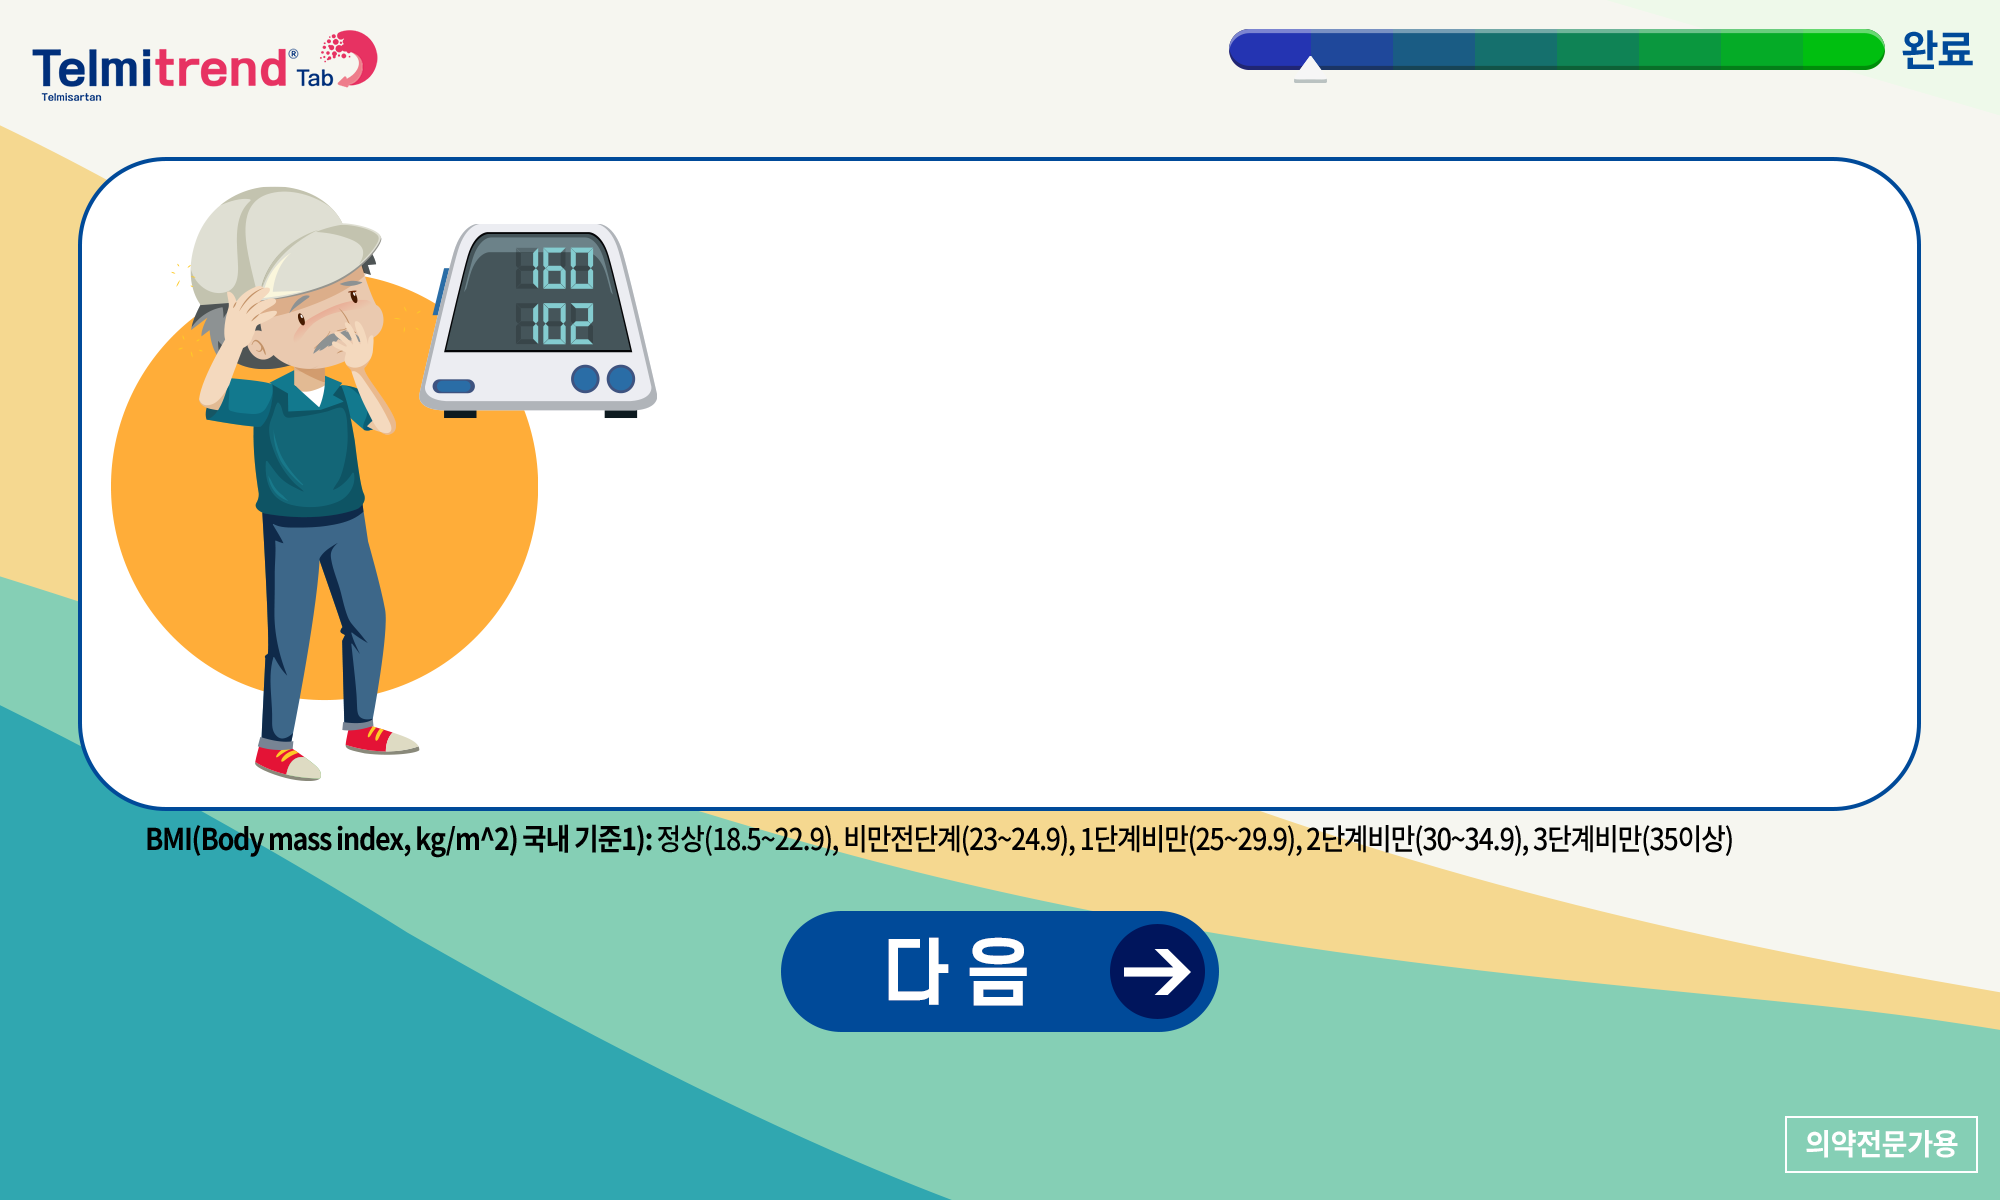
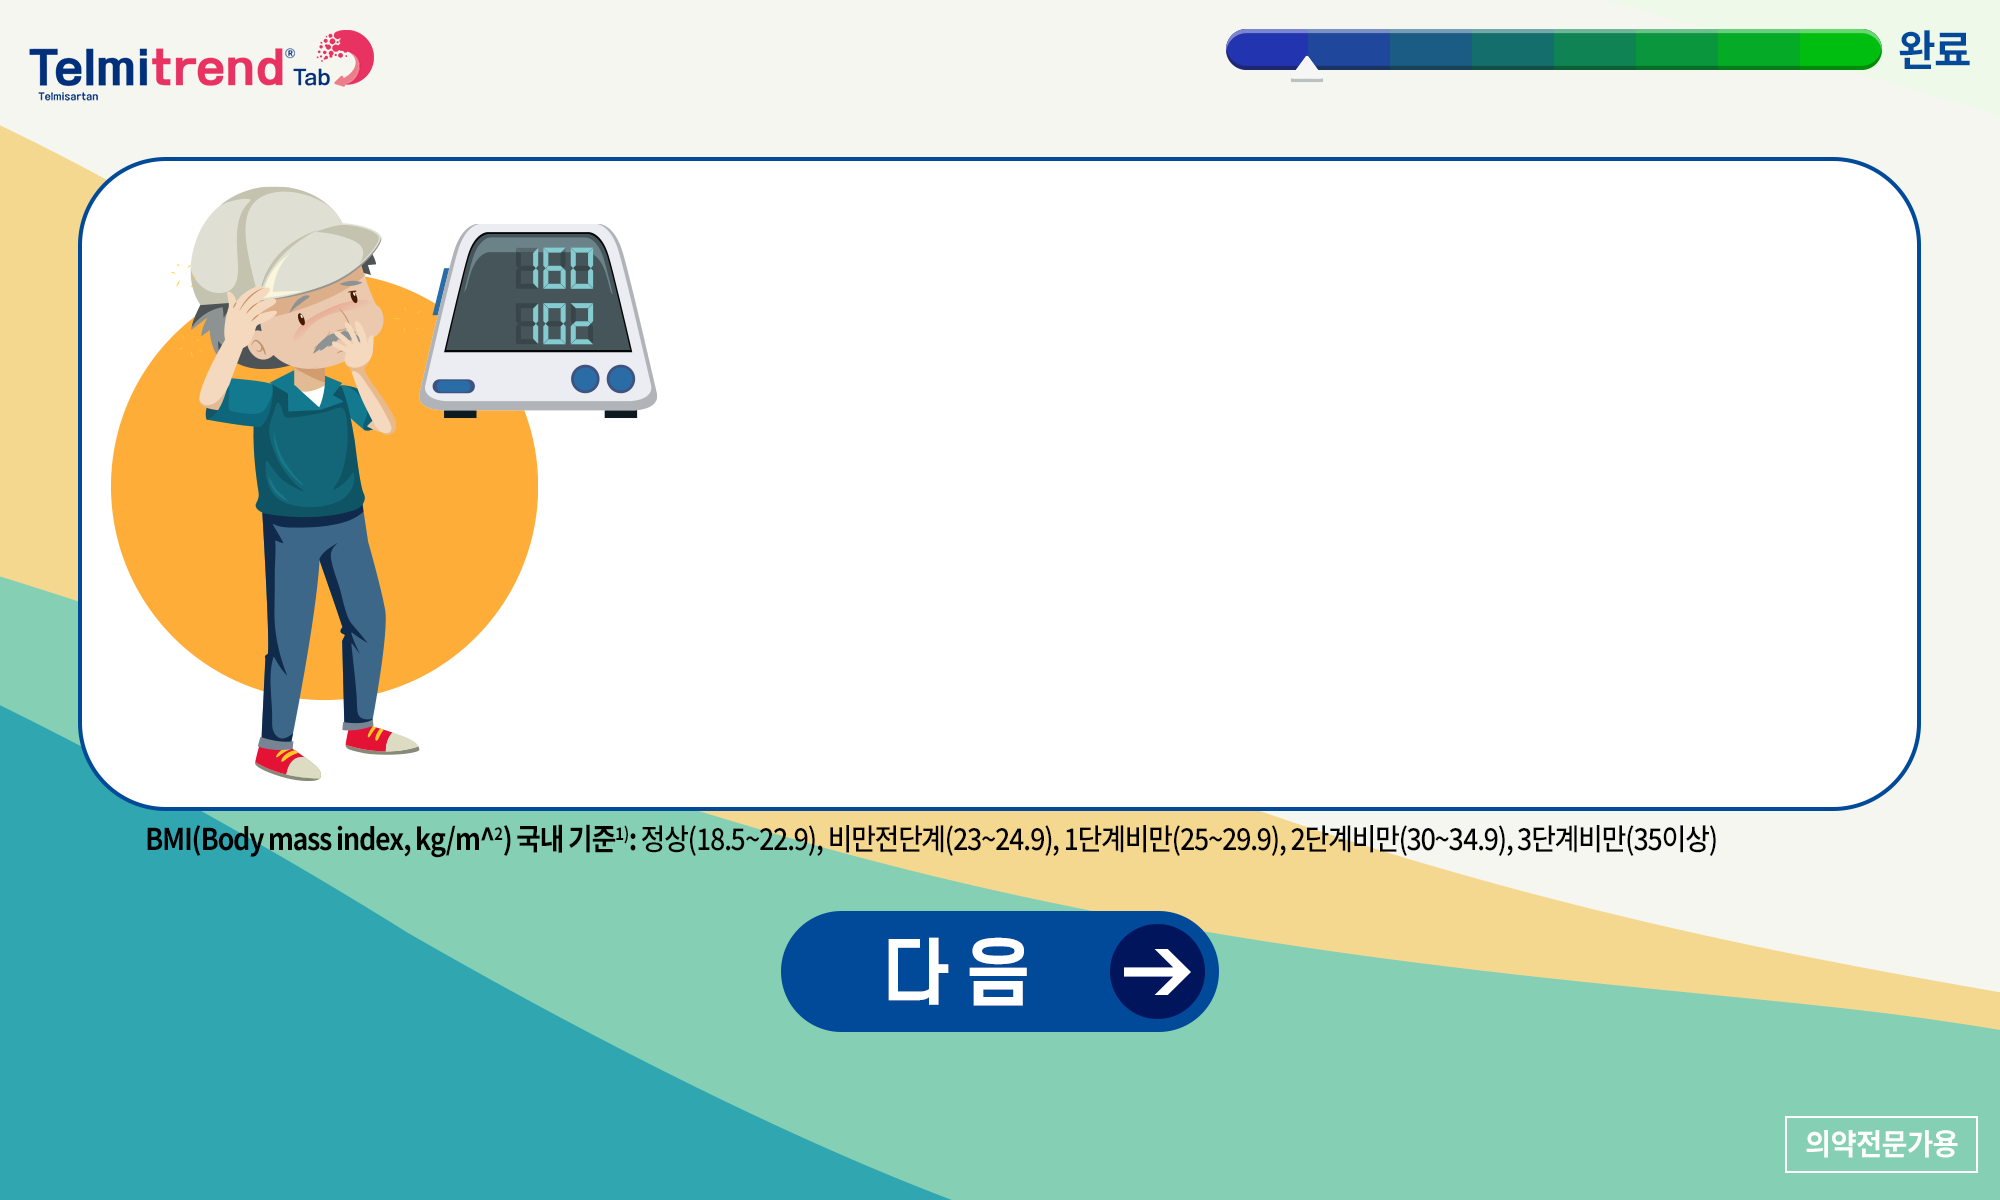
3차 업로드(8월)

Changed region(s): [[0.248, 0.6783, 0.868, 0.7092], [0.0, 0.0308, 0.186, 0.0925], [0.93, 0.0308, 0.992, 0.0617]]

diff --git a/src/data/queBoard.js b/src/data/queBoard.js
@@ -277,7 +277,7 @@ export default {
     q0: {
       part: { num: 1_1, q: '<strong>혈압강하제 처방이 결정된</strong> 다음과 같은<br> 중위험군 환자, 이 환자에게 처방을 하신다면?' },
       qImg: 'm8-s-1-1.png',
-      qText: '올해 70세인 김세월씨는 정년퇴임 후 아침마다 집 앞 등산로를<br> 걸으면서 BMI 22kg/m2 허리둘레 86cm정도로 유지하고 있다.<br> 그렇지만 여전히 담배도 끊지 못했고 혈압도 160/102 mmHg으로<br> 높다. 이 나이에 혈압약 안 먹는 사람 있나.. 싶다 가도, 지난 칠순<br> 생일에 제2형 당뇨병 때문에 초등학생 손녀가 용돈 모아 사 온<br> 케이크도 못 먹은 생각을 하니 슬프다. 얼마전 병원 검사에서는<br> 미세알부민뇨도 검출되었다고 하여 걱정이 하나 더 늘었다. 건강하게<br> 오래 살아서 손녀 결혼하는 것도 보고 싶은데, 가능할까..?\n',
+      qText: '올해 70세인 김세월씨는 정년퇴임 후 아침마다 집 앞 등산로를<br> 걸으면서 BMI 22kg/m<sup>2</sup>, 허리둘레 86cm정도로 유지하고 있다.<br> 그렇지만 여전히 담배도 끊지 못했고 혈압도 160/102 mmHg으로<br> 높다. 이 나이에 혈압약 안 먹는 사람 있나.. 싶다 가도, 지난 칠순<br> 생일에 제2형 당뇨병 때문에 초등학생 손녀가 용돈 모아 사 온<br> 케이크도 못 먹은 생각을 하니 슬프다. 얼마전 병원 검사에서는<br> 미세알부민뇨도 검출되었다고 하여 걱정이 하나 더 늘었다. 건강하게<br> 오래 살아서 손녀 결혼하는 것도 보고 싶은데, 가능할까..?\n',
       img: 'doctors.png',
     },
     q1: {
@@ -290,27 +290,62 @@ export default {
       type: 'radio',
     },
     q2: {
-      part: { num: 1_2, q: '저용량으로 시작하시게 된 이유는 무엇인가요?' },
+      part: { num: 1_2, q: '특정 ARB 제제 처방을 고려하시게 된 이유는 무엇인가요? (복수 선택 가능)' },
       qImg: 'm8-s-2-1.png',
       aImg: 'm8-s-2-2.png',
       examples: [
-        {idx: 'a', label: '1기 고혈압은 저용량으로도 충분하다고 생각해서'},
-        {idx: 'b', label: '위험인자 중 비만은 생활습관 개선으로 일부 조절이 가능하므로'},
-        {idx: 'c', label: '고용량 처방 후 발생 가능한 부작용을 피하기 위해서'},
+        {idx: 'a', label: '당뇨병과 미세알부민뇨를 동반한 환자여서'},
+        {idx: 'b', label: '특정 ARB의 혈압조절 효과가 타 ARB보다 우수하다고 생각하므로'},
+        {idx: 'c', label: '특정 ARB의 심혈관질환 위험성 감소 적응증을 고려해서'},
         {idx: 'd', label: '기타'},
+      ],
+      next: 'q2r',
+      type: 'checkbox',
+    },
+    q2r: {
+      part: { num: 1_2-1, q: '다음 ARB 제제 중 처방을 고려하실 약물은 무엇인가요? (복수 선택 가능)' },
+      qImg: 'm8-s-2-1.png',
+      aImg: 'm8-s-2-3.png',
+      examples: [
+        {idx: 'a', label: 'Losartan'},
+        {idx: 'b', label: 'Candesartan'},
+        {idx: 'c', label: 'Telmisartan 80mg'},
+        {idx: 'd', label: 'Telmisartan 20~40mg'},
+        {idx: 'e', label: 'Olmesartan'},
+        {idx: 'f', label: 'Valsartan'},
+        {idx: 'g', label: 'Fimasartan'},
+        {idx: 'h', label: '기타 ARB'},
       ],
       next: 'q4',
       type: 'checkbox',
     },
     q3: {
-      part: { num: 1_2, q: '고용량으로 시작하시게 된 이유는 무엇인가요?' },
+      part: { num: 1_2, q: '주로 처방해왔던 ARB 제제 처방을 고려하시게 된 이유는 무엇인가요? (복수 선택 가능)' },
       qImg: 'm8-s-3-1.png',
       aImg: 'm8-s-3-2.png',
       examples: [
-        {idx: 'a', label: '일단 신속한 혈압 관리가 필요해서'},
-        {idx: 'b', label: '비만이라는 위험인자를 보유한 환자이므로'},
-        {idx: 'c', label: '직업상 규칙적인 운동 등 생활습관 개선이 어려워서'},
-        {idx: 'd', label: '기타'},
+        {idx: 'a', label: 'ARB 간에 효과 차이는 없다고 생각하므로 (class effect)'},
+        {idx: 'b', label: '주로 처방해왔던 ARB 제제의 혈압 강하 효과가 충분하므로'},
+        {idx: 'c', label: '주로 처방해왔던 ARB 제제가 심혈관질환 위험성 감소<br> 적응증을 가지고 있으므로'},
+        {idx: 'd', label: '가이드라인에서 당뇨병이나 신장에 동반 환자에게 ARB를<br> 권고할 때 특정 ARB를 거론하지 않았기 때문에'},
+        {idx: 'e', label: '기타'},
+      ],
+      next: 'q3r',
+      type: 'checkbox',
+    },
+    q3r: {
+      part: { num: 1_2_1, q: '다음 ARB 제제 중 처방을 고려하실 약물은 무엇인가요? (복수 선택 가능)' },
+      qImg: 'm8-s-3-1.png',
+      aImg: 'm8-s-2-3.png',
+      examples: [
+        {idx: 'a', label: 'Losartan'},
+        {idx: 'b', label: 'Candesartan'},
+        {idx: 'c', label: 'Telmisartan (40mg, 80mg)'},
+        {idx: 'd', label: 'Telmisartan (20mg)'},
+        {idx: 'e', label: 'Olmesartan'},
+        {idx: 'f', label: 'Valsartan'},
+        {idx: 'g', label: 'Fimasartan'},
+        {idx: 'h', label: '기타'},
       ],
       next: 'q4',
       type: 'checkbox',

diff --git a/src/data/queBoard-admin.js b/src/data/queBoard-admin.js
@@ -237,21 +237,48 @@ export default {
       ],
     },
     q2: {
-      part: { num: '1-2', q: '저용량으로 시작하시게 된 이유는 무엇인가요?' },
+      part: { num: '1-2', q: '특정 ARB 제제 처방을 고려하시게 된 이유는 무엇인가요? (복수 선택 가능)' },
       examples: [
-        {idx: 'a', label: '1기 고혈압은 저용량으로도 충분하다고 생각해서'},
-        {idx: 'b', label: '위험인자 중 비만은 생활습관 개선으로 일부 조절이 가능하므로'},
-        {idx: 'c', label: '고용량 처방 후 발생 가능한 부작용을 피하기 위해서'},
+        {idx: 'a', label: '당뇨병과 미세알부민뇨를 동반한 환자여서'},
+        {idx: 'b', label: '특정 ARB의 혈압조절 효과가 타 ARB보다 우수하다고 생각하므로'},
+        {idx: 'c', label: '특정 ARB의 심혈관질환 위험성 감소 적응증을 고려해서'},
         {idx: 'd', label: '기타'},
       ],
     },
-    q3: {
-      part: { num: '1-2', q: '고용량으로 시작하시게 된 이유는 무엇인가요?' },
+    q2r: {
+      part: { num: '1-2-1', q: '다음 ARB 제제 중 처방을 고려하실 약물은 무엇인가요? (복수 선택 가능)' },
       examples: [
-        {idx: 'a', label: '일단 신속한 혈압 관리가 필요해서'},
-        {idx: 'b', label: '비만이라는 위험인자를 보유한 환자이므로'},
-        {idx: 'c', label: '직업상 규칙적인 운동 등 생활습관 개선이 어려워서'},
-        {idx: 'd', label: '기타'},
+        {idx: 'a', label: 'Losartan'},
+        {idx: 'b', label: 'Candesartan'},
+        {idx: 'c', label: 'Telmisartan 80mg'},
+        {idx: 'd', label: 'Telmisartan 20~40mg'},
+        {idx: 'e', label: 'Olmesartan'},
+        {idx: 'f', label: 'Valsartan'},
+        {idx: 'g', label: 'Fimasartan'},
+        {idx: 'h', label: '기타 ARB (______)'},
+      ],
+    },
+    q3: {
+      part: { num: '1-2', q: '주로 처방해왔던 ARB 제제 처방을 고려하시게 된 이유는 무엇인가요? (복수 선택 가능)' },
+      examples: [
+        {idx: 'a', label: 'ARB 간에 효과 차이는 없다고 생각하므로 (class effect)'},
+        {idx: 'b', label: '주로 처방해왔던 ARB 제제의 혈압 강하 효과가 충분하므로'},
+        {idx: 'c', label: '주로 처방해왔던 ARB 제제가 심혈관질환 위험성 감소<br> 적응증을 가지고 있으므로'},
+        {idx: 'd', label: '가이드라인에서 당뇨병이나 신장에 동반 환자에게 ARB를<br> 권고할 때 특정 ARB를 거론하지 않았기 때문에'},
+        {idx: 'e', label: '기타'},
+      ],
+    },
+    q3r: {
+      part: { num: '1-2-1', q: '다음 ARB 제제 중 처방을 고려하실 약물은 무엇인가요? (복수 선택 가능)' },
+      examples: [
+        {idx: 'a', label: 'Losartan'},
+        {idx: 'b', label: 'Candesartan'},
+        {idx: 'c', label: 'Telmisartan (40mg, 80mg)'},
+        {idx: 'd', label: 'Telmisartan (20mg)'},
+        {idx: 'e', label: 'Olmesartan'},
+        {idx: 'f', label: 'Valsartan'},
+        {idx: 'g', label: 'Fimasartan'},
+        {idx: 'h', label: '기타'},
       ],
     },
     q4: {

diff --git a/src/components/Survey.vue b/src/components/Survey.vue
@@ -120,12 +120,20 @@ export default {
     }
     &.v202108 {
       .queBox {
-        .q-text { .lt(700,210); }
+        .doctors { .hide; }
+        .q-text { .lt(700,200); }
       }
       .input-box {
         &.q2 {
           label {
             p { .fs(45); }
+          }
+        }
+        &.q3 {
+          .inner + a { .t(1049); }
+          label {
+            p { .fs(45); }
+            &:nth-child(3) p, &:nth-child(4) p { .t(13); .lh(50); }
           }
         }
       }
@@ -190,7 +198,7 @@ export default {
           p { .t(30); }
         }
       }
-      &.q2, &.q3, &.q4, &.q5, &.q6, &.q7, &.q8, &.q9, &.q10 { .pt(346);
+      &.q2, &.q3, &.q4, &.q5, &.q6, &.q7, &.q8, &.q9, &.q10, &.q2r, &.q3r { .pt(346);
         label { .mb(20);
           p { .fs(54); .l(120); }
         }
@@ -215,7 +223,7 @@ export default {
         }
         a { .lt(781,1041); }
       }
-      &.q6 {
+      &.q6, &.q2r, &.q3r {
         .inner { .h(565);
           label { .mr(112); .ml(80); .ib;
             &:nth-child(n+5) { .mr(0); .ml(0); }
